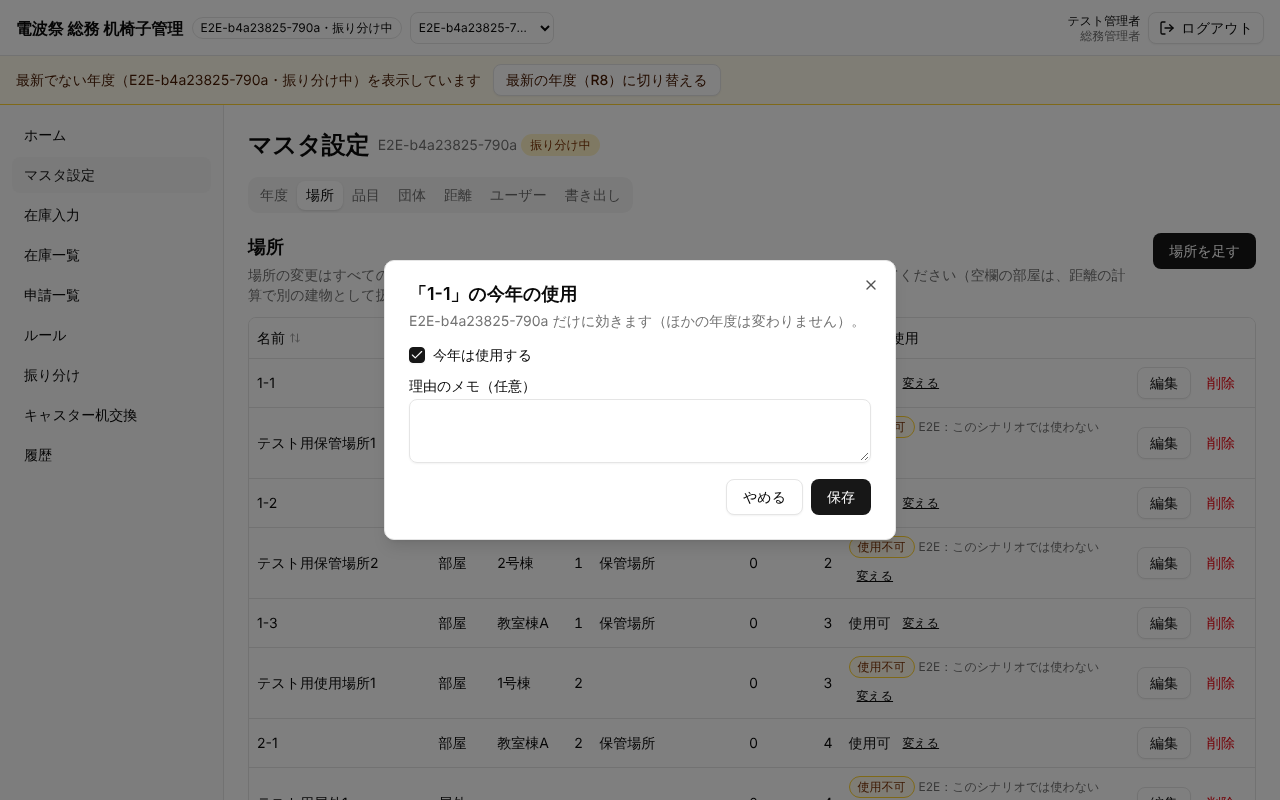
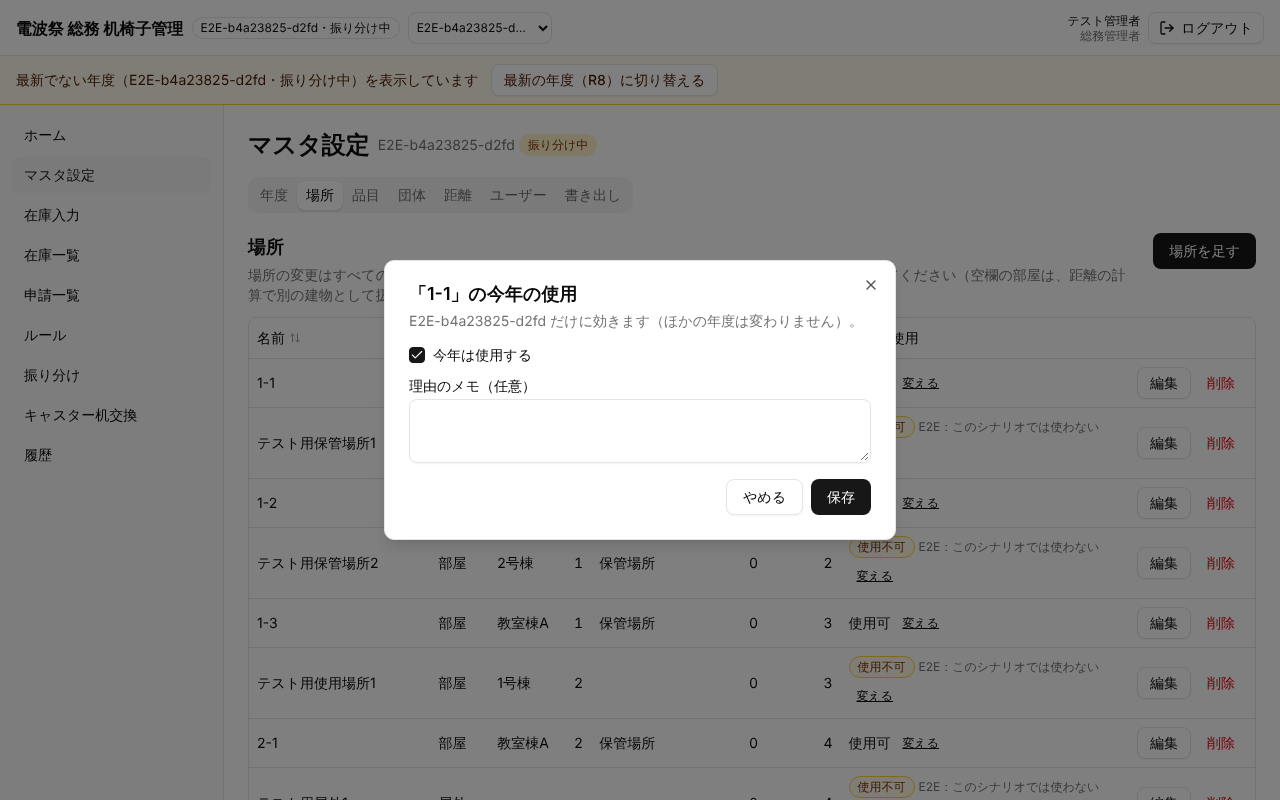
fix(T09): save this year's room usage with an optimistic lock instead of a blind upsert
The usable dialog now updates room_years with the updated_at it read (insert
when no row, 23505 as conflict), reloads on conflict, keeps the input and tells
the admin that someone else changed it.

Claude-Session: https://claude.ai/code/session_01WNbyY2riVdfm15kp8tp6es

diff --git a/apps/web/components/settings/rooms-tab.tsx b/apps/web/components/settings/rooms-tab.tsx
@@ -20,8 +20,7 @@ import { Dialog, DialogContent, DialogDescription, DialogFooter, DialogHeader, D
 import { Input } from '@/components/ui/input';
 import { Label } from '@/components/ui/label';
 import { Textarea } from '@/components/ui/textarea';
-import { setRoomUsable } from '@/lib/data/room-years';
-import { deleteRoom, fetchAllocationSources, fetchRooms, fetchRoomYears, insertRoom, updateRoom } from '@/lib/data/settings';
+import { deleteRoom, fetchAllocationSources, fetchRooms, fetchRoomYears, insertRoom, saveRoomYear, updateRoom } from '@/lib/data/settings';
 import type { RoomRow, RoomYearRow } from '@/lib/db/types';
 import { ROOM_KIND_LABELS } from '@/lib/labels';
 import { classifyError, messageFor } from '@/lib/errors';
@@ -50,7 +49,8 @@ export function RoomsTab() {
   });
   const [editing, setEditing] = useState<RoomRow | 'new' | null>(null);
   const [deleting, setDeleting] = useState<RoomRow | null>(null);
-  const [usableOf, setUsableOf] = useState<RoomView | null>(null);
+  // 今年の使用のダイアログは場所の id で持ち、読み直した後の行（room_years の updated_at）で保存する（2.3）
+  const [usableOfId, setUsableOfId] = useState<string | null>(null);
   const queryClient = useQueryClient();
   const onError = useWriteErrorHandler();
 
@@ -62,6 +62,8 @@ export function RoomsTab() {
       return { ...r, usable: y?.usable ?? true, usableNote: y?.note ?? null, roomYear: y };
     });
   }, [roomsQ.data, roomYearsQ.data]);
+
+  const usableOf = usableOfId ? (views?.find((v) => v.id === usableOfId) ?? null) : null;
 
   const combined = {
     data: views,
@@ -102,7 +104,7 @@ export function RoomsTab() {
                 variant="ghost"
                 className="h-7 px-2 text-xs underline"
                 aria-label={`${row.original.name}の今年の使用を変える`}
-                onClick={() => setUsableOf(row.original)}
+                onClick={() => setUsableOfId(row.original.id)}
               >
                 変える
               </Button>
@@ -213,7 +215,7 @@ export function RoomsTab() {
           sourcesError={guardSources && sourcesQ.isError ? sourcesQ.error : null}
           sourcesReloading={sourcesQ.isFetching}
           onReloadSources={() => void sourcesQ.refetch()}
-          onClose={() => setUsableOf(null)}
+          onClose={() => setUsableOfId(null)}
         />
       ) : null}
     </div>
@@ -333,6 +335,9 @@ function UsableDialog({
   const [note, setNote] = useState(room.usableNote ?? '');
   const [saving, setSaving] = useState(false);
   const [noteError, setNoteError] = useState<string | null>(null);
+  // 開いたときの行。読み直して updated_at が変わっていれば、ほかの人が変えたと知らせる（入力は残す）
+  const [opened] = useState(room);
+  const changedByOther = (room.roomYear?.updated_at ?? null) !== (opened.roomYear?.updated_at ?? null);
   useUnsavedChanges(usable !== room.usable || note !== (room.usableNote ?? ''));
 
   // 使用不可にするときの守り（3.2・3.9）：振り分け中は固定・手動の行、確定中は振り分けの行があれば、ここでは押せない
@@ -349,7 +354,7 @@ function UsableDialog({
     }
     setSaving(true);
     try {
-      await setRoomUsable(year.id, room.id, parsed.data.usable, parsed.data.note);
+      await saveRoomYear(year.id, room.id, room.roomYear, parsed.data.usable, parsed.data.note);
       toast.success(`「${room.name}」を今年は${parsed.data.usable ? '使用可' : '使用不可'}にしました`);
       await queryClient.invalidateQueries({ queryKey: queryKeys.year(year.id) });
       onClose();
@@ -368,6 +373,12 @@ function UsableDialog({
           <DialogDescription>{year.label} だけに効きます（ほかの年度は変わりません）。</DialogDescription>
         </DialogHeader>
         <div className="space-y-4">
+          {changedByOther ? (
+            <p role="status" className="rounded-md border border-amber-300 bg-amber-50 p-2 text-sm text-amber-950" data-testid="usable-changed-by-other">
+              ほかの人がこの場所の今年の使用を変えました。いまの設定は「{room.usable ? '使用可' : '使用不可'}」
+              {room.usableNote ? `（メモ：${room.usableNote}）` : ''}です。確かめてから保存してください。
+            </p>
+          ) : null}
           <div className="flex items-center gap-2">
             <Checkbox id="room-usable" checked={usable} onCheckedChange={(c) => setUsable(c === true)} />
             <Label htmlFor="room-usable">今年は使用する</Label>

diff --git a/e2e/t09-settings.spec.ts b/e2e/t09-settings.spec.ts
@@ -403,6 +403,57 @@ test.describe('T09 場所の今年の使用（管理者）', () => {
       await s.cleanup();
     }
   });
+
+  test('T09 今年の使用：開いている間にほかの管理者が変えたら、後の保存は conflict になり、黙って上書きしない', async ({ page, browser }) => {
+    const s = await createScenario({ dataset: 'small', roles: { admin: true } });
+    const ctxB = await browser.newContext({ storageState: storageStateFor('admin') });
+    try {
+      const pageB = await ctxB.newPage();
+      await pinYear(page, SEED_USER_IDS.admin, s.yearId);
+      await pinYear(pageB, SEED_USER_IDS.admin, s.yearId);
+      const open = async (p: Page) => {
+        await p.goto('/settings/?tab=rooms');
+        await rowOf(p, SMALL.rooms.class1).getByRole('button', { name: `${SMALL.rooms.class1}の今年の使用を変える` }).click();
+        const d = p.getByRole('dialog');
+        await expect(d.getByLabel('今年は使用する')).toBeChecked();
+        return d;
+      };
+      const roomYear = () =>
+        sql<{ usable: boolean; note: string | null }>(
+          'select ry.usable, ry.note from public.room_years ry join public.rooms r on r.id = ry.room_id where ry.year_id = $1 and r.name = $2',
+          [s.yearId, SMALL.rooms.class1],
+        );
+
+      // A が開く（使用可・メモなし）→ その間に B が使用不可にしてメモを入れて保存する
+      const dialogA = await open(page);
+      const dialogB = await open(pageB);
+      await dialogB.getByLabel('今年は使用する').uncheck();
+      await dialogB.getByLabel('理由のメモ（任意）').fill('E2E 工事のため');
+      await dialogB.getByRole('button', { name: '保存' }).click();
+      await expect(pageB.getByText(`「${SMALL.rooms.class1}」を今年は使用不可にしました`)).toBeVisible();
+      await expect(dialogB).toHaveCount(0);
+
+      // A は古い表示のままメモだけ直して保存する → conflict。B の使用不可は残り、A の入力も残る
+      await dialogA.getByLabel('理由のメモ（任意）').fill('E2E メモだけ直す');
+      await dialogA.getByRole('button', { name: '保存' }).click();
+      await expect(page.getByText('他の人が先に変更しました。読み直しました')).toBeVisible();
+      const notice = dialogA.getByTestId('usable-changed-by-other');
+      await expect(notice).toContainText('「使用不可」');
+      await expect(notice).toContainText('E2E 工事のため');
+      await expect(dialogA.getByLabel('理由のメモ（任意）')).toHaveValue('E2E メモだけ直す');
+      expect(await roomYear()).toEqual([{ usable: false, note: 'E2E 工事のため' }]);
+
+      // 読み直した後は、A が確かめて保存し直せる
+      await dialogA.getByLabel('今年は使用する').uncheck();
+      await dialogA.getByRole('button', { name: '保存' }).click();
+      await expect(page.getByText(`「${SMALL.rooms.class1}」を今年は使用不可にしました`)).toBeVisible();
+      await expect(dialogA).toHaveCount(0);
+      expect(await roomYear()).toEqual([{ usable: false, note: 'E2E メモだけ直す' }]);
+    } finally {
+      await ctxB.close();
+      await s.cleanup();
+    }
+  });
 });
 
 test.describe('T09 マスタ設定の権限', () => {

diff --git a/apps/web/lib/data/settings.ts b/apps/web/lib/data/settings.ts
@@ -22,6 +22,7 @@ import { callRpc } from '@/lib/rpc';
 import type { AppRole, YearSummary } from '@/lib/auth/membership';
 import type { GroupCsvRow } from '@/lib/schemas/settings';
 import { nameKey } from '@/lib/schemas/settings';
+import { NOTE_MAX, optionalText, uuidSchema } from '@/lib/schemas/common';
 import { getSupabase, type AppSupabaseClient } from '@/lib/supabase/client';
 
 // ---- タブ ----
@@ -395,7 +396,7 @@ export async function fetchMembers(yearId: string, client: AppSupabaseClient = g
 
 async function insertOne<T>(
   client: AppSupabaseClient,
-  table: 'rooms' | 'items' | 'groups' | 'distance_overrides',
+  table: 'rooms' | 'room_years' | 'items' | 'groups' | 'distance_overrides',
   values: unknown,
   columns: string,
 ): Promise<T> {
@@ -419,6 +420,44 @@ export const updateRoom = (row: Pick<RoomRow, 'id' | 'updated_at'>, patch: Table
   updateWithLock(client, 'rooms', { id: row.id }, row.updated_at, patch);
 export const deleteRoom = (row: Pick<RoomRow, 'id' | 'updated_at'>, client: AppSupabaseClient = getSupabase()) =>
   deleteChecked(client, 'rooms', { id: row.id }, row.updated_at);
+
+const roomYearNoteSchema = optionalText(NOTE_MAX);
+
+/**
+ * 今年の使用（room_years）を、読み込んだときの行に対してだけ保存する（2.3。黙って上書きしない）。
+ * - current（読み込んだときの行。なければ null）がある → updateWithLock（updated_at が違えば conflict、行が消えていれば not_found）
+ * - current が null → insert。ほかの人が先に足していれば（23505）conflict
+ * どちらの conflict も、呼び出し側は room_years を読み直し、入力は残す。
+ * 書き込みで版が上がるので、成功した後は年度（queryKeys.year）を読み直す。
+ *
+ * @example
+ * await saveRoomYear(year.id, room.id, room.roomYear, false, '工事のため');
+ */
+export async function saveRoomYear(
+  yearId: string,
+  roomId: string,
+  current: Pick<RoomYearRow, 'updated_at'> | null,
+  usable: boolean,
+  note: string | null,
+  client: AppSupabaseClient = getSupabase(),
+): Promise<RoomYearRow> {
+  if (!uuidSchema.safeParse(yearId).success || !uuidSchema.safeParse(roomId).success) {
+    throw appError('input', 'client_validation', { field: 'room_id' });
+  }
+  const n = roomYearNoteSchema.safeParse(note);
+  if (!n.success) throw appError('input', 'client_validation', { field: 'note' });
+  const match = { year_id: yearId, room_id: roomId };
+  if (current) {
+    return (await updateWithLock(client, 'room_years', match, current.updated_at, { usable, note: n.data })) as unknown as RoomYearRow;
+  }
+  try {
+    return await insertOne<RoomYearRow>(client, 'room_years', { ...match, usable, note: n.data }, COLUMNS.room_years);
+  } catch (e) {
+    const err = toAppError(e);
+    if (err.info.code === '23505') throw appError('conflict', 'lock_conflict', { table: 'room_years', match });
+    throw err;
+  }
+}
 
 export const insertItem = (v: ItemValues, client: AppSupabaseClient = getSupabase()) =>
   insertOne<ItemRow>(client, 'items', v, COLUMNS.items);

diff --git a/e2e/shots/T09.shots.ts b/e2e/shots/T09.shots.ts
@@ -123,6 +123,34 @@ test.describe('T09 マスタ設定（管理者）', () => {
     }
   });
 
+  test('T09 マスタ設定：今年の使用を開いている間にほかの人が変えたとき（conflict で読み直し、入力は残す）', async ({ page }) => {
+    const s = await createScenario({ dataset: 'small', roles: { admin: true } });
+    try {
+      await pinYear(page, SEED_USER_IDS.admin, s.yearId);
+      await page.goto('/settings/?tab=rooms');
+      await page
+        .getByRole('row')
+        .filter({ has: page.getByRole('cell', { name: SMALL.rooms.class1, exact: true }) })
+        .getByRole('button', { name: `${SMALL.rooms.class1}の今年の使用を変える` })
+        .click();
+      const dialog = page.getByRole('dialog');
+      await expect(dialog.getByLabel('今年は使用する')).toBeChecked();
+      // ほかの管理者の保存の代わりに、DB で使用不可にしてメモを入れる
+      await sql(
+        `insert into public.room_years (year_id, room_id, usable, note)
+         select $1, id, false, '工事のため' from public.rooms where name = $2
+         on conflict (year_id, room_id) do update set usable = excluded.usable, note = excluded.note`,
+        [s.yearId, SMALL.rooms.class1],
+      );
+      await dialog.getByLabel('理由のメモ（任意）').fill('メモだけ直す');
+      await dialog.getByRole('button', { name: '保存' }).click();
+      await expect(dialog.getByTestId('usable-changed-by-other')).toBeVisible();
+      await shoot(page, 'T09', 'settings-room-usable-conflict-pc');
+    } finally {
+      await s.cleanup();
+    }
+  });
+
   test('T09 マスタ設定：保存中に通信が切れたとき（フォームは残して帯で知らせる）とルールを読めない年度がある場所の削除', async ({ page }) => {
     test.setTimeout(90_000);
     const s = await createScenario({ status: 'requesting', dataset: 'small', rules: 'none', roles: { admin: true } });
